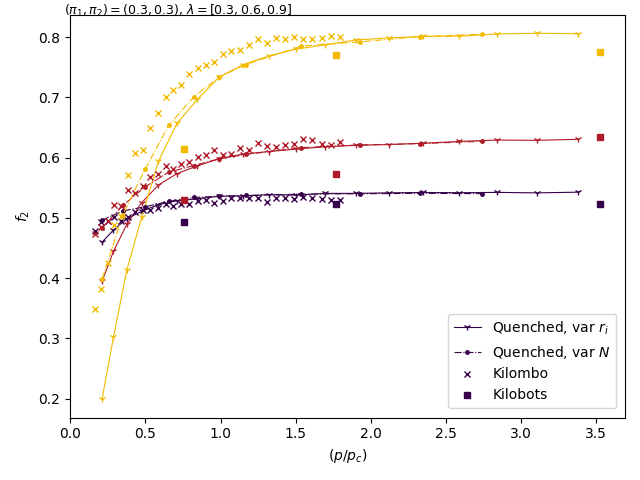
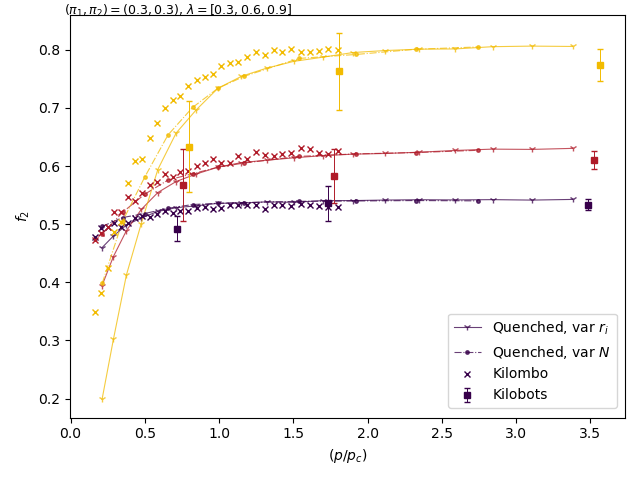
work 10 jul

diff --git a/sim_some_params_frozen/sim_results_scaling_v2.py b/sim_some_params_frozen/sim_results_scaling_v2.py
@@ -44,10 +44,10 @@ for l,lcolor in zip(lambs,lambs_colors):
     dfl = df.query('lamb == @l')
     if l==0.3:
         # ax.plot((N*dfl['interac_r']**2/arena_r**2)/perc_dens_fixN, dfl['f2'], color=lcolor, marker='1', markersize=5, lw=0.8, label=r'Quenched, var $r_i$')
-        ax.plot((dfl['interac_r']/perc_r_fixN)**2, dfl['f2'], color=lcolor, marker='1', markersize=5, lw=0.8, label=r'Quenched, var $r_i$')
+        ax.plot((dfl['interac_r']/perc_r_fixN)**2, dfl['f2'], color=lcolor, marker='1', markersize=5, lw=0.8, alpha=0.75, label=r'Quenched, var $r_i$')
     else:
         # ax.plot((N*dfl['interac_r']**2/arena_r**2)/perc_dens_fixN, dfl['f2'], color=lcolor, marker='1', markersize=5, lw=0.8)
-        ax.plot((dfl['interac_r']/perc_r_fixN)**2, dfl['f2'], color=lcolor, marker='1', markersize=5, lw=0.8)
+        ax.plot((dfl['interac_r']/perc_r_fixN)**2, dfl['f2'], color=lcolor, marker='1', markersize=5, lw=0.8, alpha=0.75)
 
 # QUENCHED
 # fix r_i, move N:
@@ -66,10 +66,10 @@ for l,lcolor in zip(lambs,lambs_colors):
     perc_r_difN = perc_r(np.array(Ns))
     if l==0.3:
         # ax.plot((np.array(Ns)*interac_r**2/arena_r**2)/perc_dens_q, f2_dif_N, color=lcolor, marker='.', markersize=5, lw=0.8, ls='-.', label=r'Quenched, var $N$')
-        ax.plot((interac_r/perc_r_difN)**2, f2_dif_N, color=lcolor, marker='.', markersize=5, lw=0.8, ls='-.', label=r'Quenched, var $N$')
+        ax.plot((interac_r/perc_r_difN)**2, f2_dif_N, color=lcolor, marker='.', markersize=5, lw=0.8, alpha=0.75, ls='-.', label=r'Quenched, var $N$')
     else:
         # ax.plot((np.array(Ns)*interac_r**2/arena_r**2)/perc_dens_q, f2_dif_N, color=lcolor, marker='.', markersize=5, lw=0.8, ls='-.')
-        ax.plot((interac_r/perc_r_difN)**2, f2_dif_N, color=lcolor, marker='.', markersize=5, lw=0.8, ls='-.')
+        ax.plot((interac_r/perc_r_difN)**2, f2_dif_N, color=lcolor, marker='.', markersize=5, lw=0.8, alpha=0.75, ls='-.')
 
 
 factor = 4.0/6.5
@@ -93,22 +93,44 @@ for l,lcolor in zip(lambs,lambs_colors):
         ax.plot((interac_r/dfl['perc_r'])**2, dfl['stat.value'], color=lcolor, marker='x', markersize=4, lw=0.0)
 
 
-# KILOBOTS
+# KILOBOTS (Julia's Data)
+# fix r_i, move N:
+# interac_r = 7.0
+# df = pd.read_csv('other_res_files/KilobotsStatValues_VaryingN.csv')
+# df = df.rename(columns={"lambda":"lamb"})
+# df = df.query("parameter == 'f2' & pi1 == @pis[0] & pi2 == @pis[1]")
+# for l,lcolor in zip(lambs,lambs_colors):
+#     dfl = df.query('lamb == @l').copy()
+#     dfl['perc_dens'] = factor**2 * perc_dens(dfl['N'])
+#     dfl['perc_r'] = factor * perc_r(dfl['N'])
+#     if l==0.3:
+#         # ax.plot(dfl['N']*(interac_r/arena_r)**2/dfl['perc_dens'], dfl['stat.value'], color=lcolor, marker='s', markersize=4, lw=0.0, label='Kilobots')
+#         ax.plot((interac_r/dfl['perc_r'])**2, dfl['stat.value'], color=lcolor, marker='s', markersize=4, lw=0.0, label='Kilobots')
+#     else:
+#         # ax.plot(dfl['N']*(interac_r/arena_r)**2/dfl['perc_dens'], dfl['stat.value'], color=lcolor, marker='s', markersize=4, lw=0.0)
+#         ax.plot((interac_r/dfl['perc_r'])**2, dfl['stat.value'], color=lcolor, marker='s', markersize=4, lw=0.0)
+
+
+# KILOBOTS (David's Data)
 # fix r_i, move N:
 interac_r = 7.0
-df = pd.read_csv('other_res_files/KilobotsStatValues_VaryingN.csv')
-df = df.rename(columns={"lambda":"lamb"})
-df = df.query("parameter == 'f2' & pi1 == @pis[0] & pi2 == @pis[1]")
-for l,lcolor in zip(lambs,lambs_colors):
+jitterer_xax = [-0.04, 0.0, 0.04]
+df = pd.read_csv('other_res_files/kilobot_statVals_varN_varl_useLastIters_150_pi1_0.3_pi2_0.3_q1_7_q2_10.csv')
+for l,lcolor,jit in zip(lambs,lambs_colors,jitterer_xax):
     dfl = df.query('lamb == @l').copy()
-    dfl['perc_dens'] = factor**2 * perc_dens(dfl['N'])
     dfl['perc_r'] = factor * perc_r(dfl['N'])
     if l==0.3:
-        # ax.plot(dfl['N']*(interac_r/arena_r)**2/dfl['perc_dens'], dfl['stat.value'], color=lcolor, marker='s', markersize=4, lw=0.0, label='Kilobots')
-        ax.plot((interac_r/dfl['perc_r'])**2, dfl['stat.value'], color=lcolor, marker='s', markersize=4, lw=0.0, label='Kilobots')
+        # ax.plot((interac_r/dfl['perc_r'])**2, dfl['avg'], color=lcolor, marker='s', markersize=4, lw=0.0, label='Kilobots')
+        ax.errorbar((interac_r/dfl['perc_r'])**2+jit, dfl['avg'], dfl['std_trajs'], color=lcolor, marker='s', markersize=4, lw=0.0, 
+                    elinewidth=0.7, capsize=2.0, label='Kilobots')
     else:
-        # ax.plot(dfl['N']*(interac_r/arena_r)**2/dfl['perc_dens'], dfl['stat.value'], color=lcolor, marker='s', markersize=4, lw=0.0)
-        ax.plot((interac_r/dfl['perc_r'])**2, dfl['stat.value'], color=lcolor, marker='s', markersize=4, lw=0.0)
+        # ax.plot((interac_r/dfl['perc_r'])**2, dfl['avg'], color=lcolor, marker='s', markersize=4, lw=0.0)
+        ax.errorbar((interac_r/dfl['perc_r'])**2+jit, dfl['avg'], dfl['std_trajs'], color=lcolor, marker='s', markersize=4, lw=0.0, 
+                    elinewidth=0.7, capsize=2.0)
+
+
+
+
 
 ax.set(xlabel=r'$(p/ p_c)$', ylabel=r'$f_2$') # , xscale='log'
 fig.text(0.1,0.97, rf"$(\pi_1, \pi_2) = ({pis[0]}, {pis[1]})$, $\lambda = [0.3, 0.6, 0.9]$", fontsize=9)
